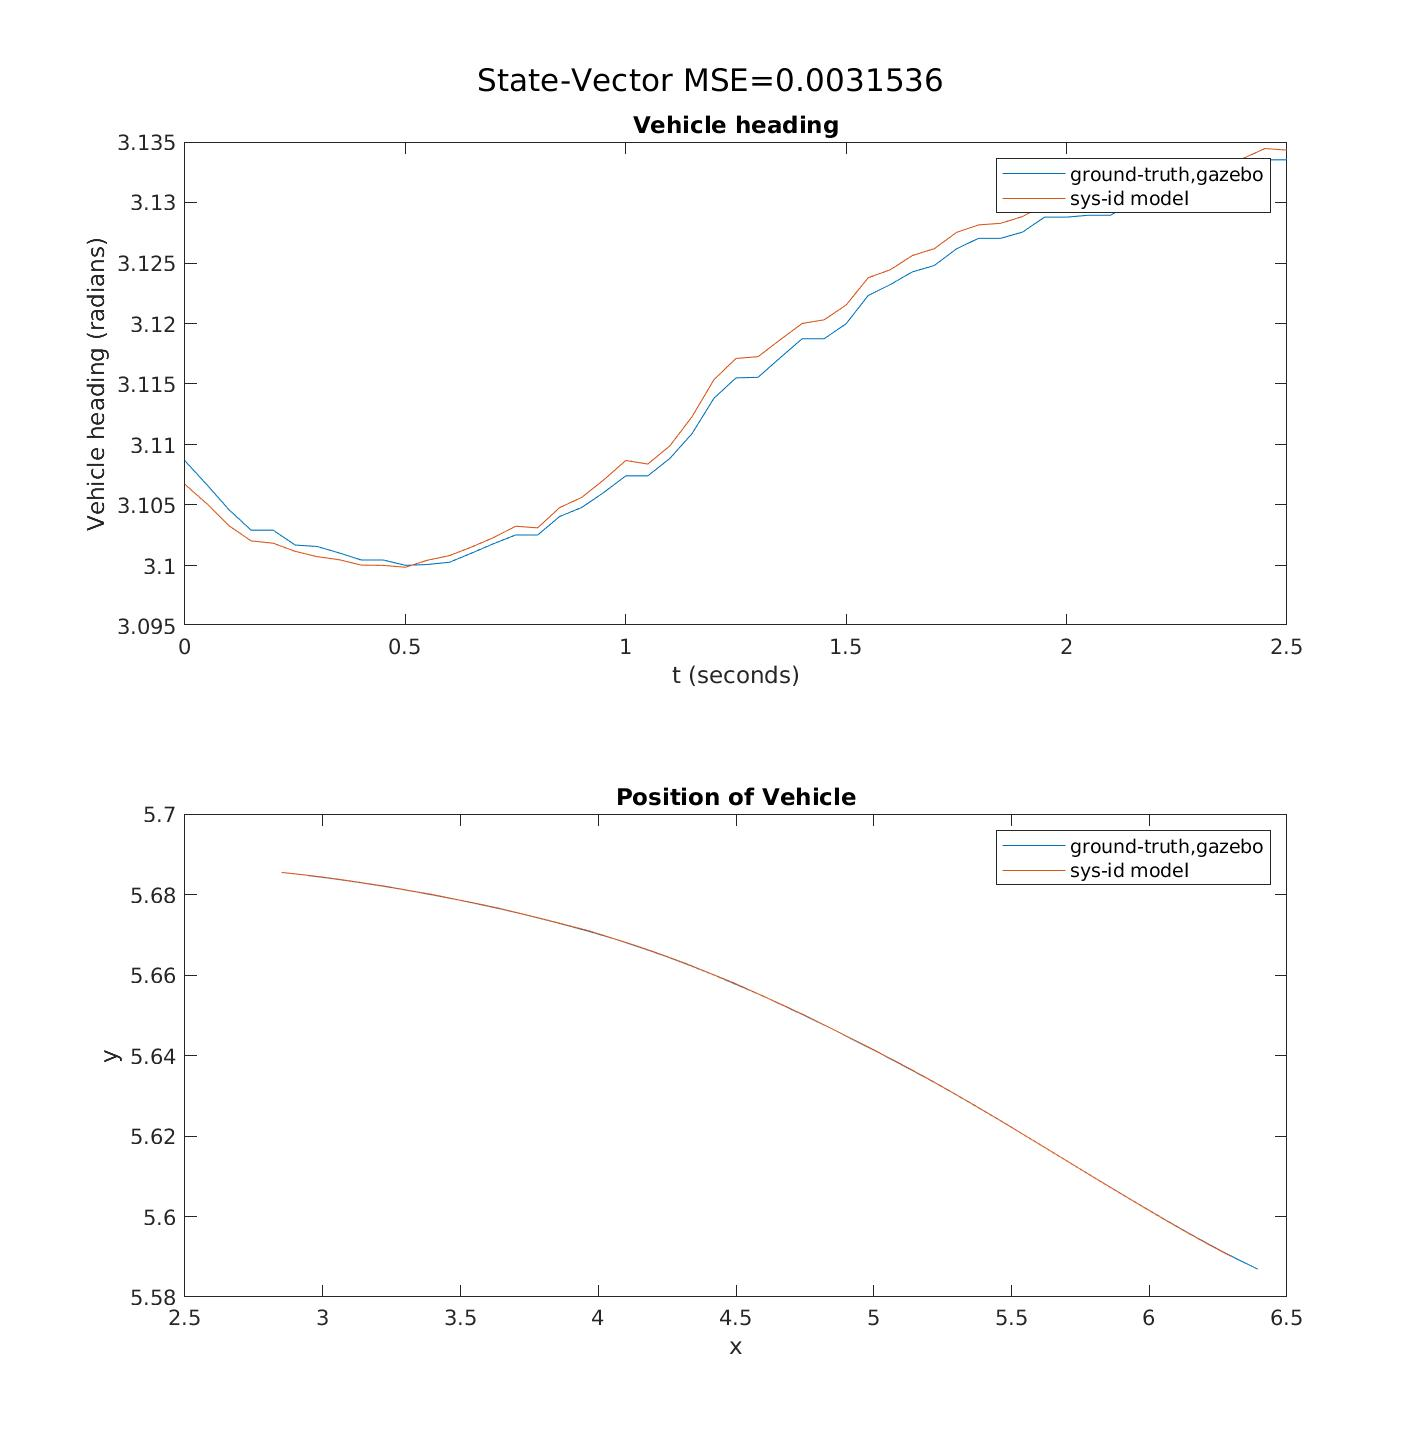
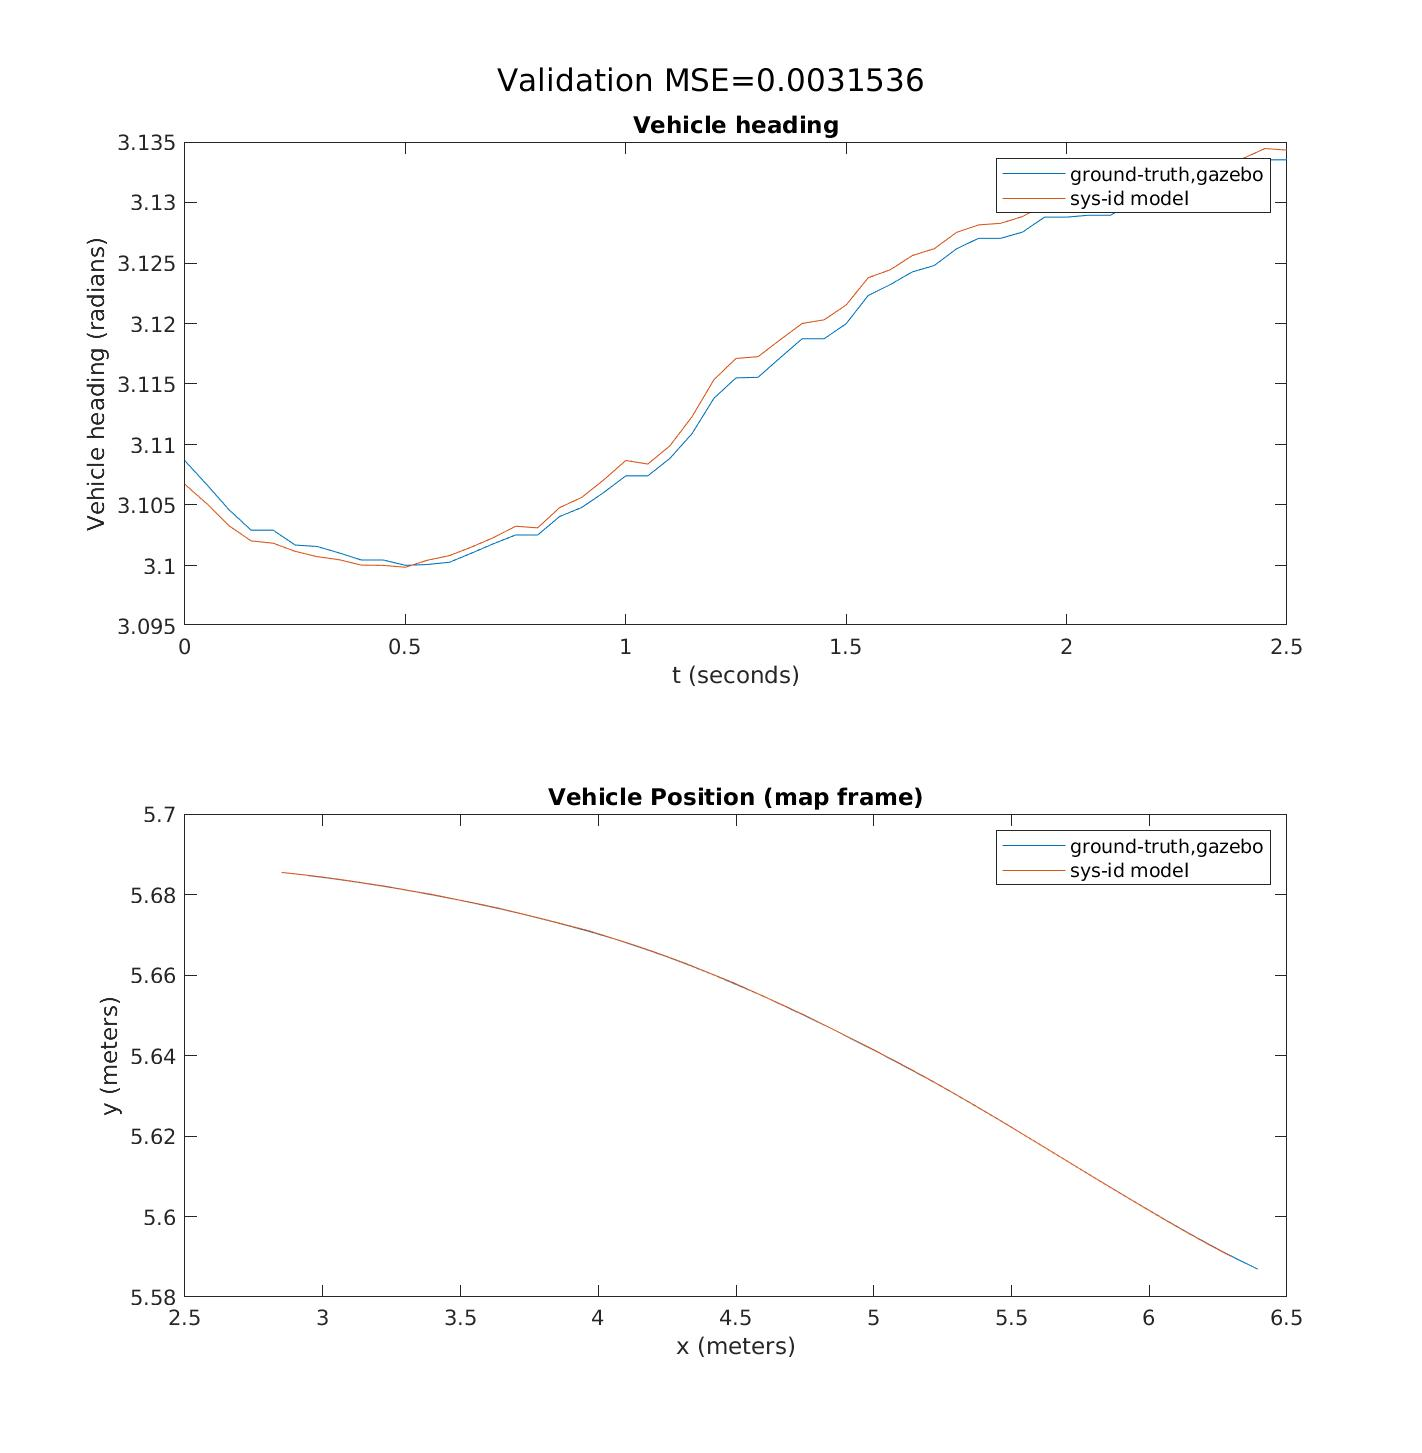
small tweak

diff --git a/src/race/sys_id/validate_experiment.m b/src/race/sys_id/validate_experiment.m
@@ -36,11 +36,11 @@ plot(x(1,:),x(2,:),'DisplayName','ground-truth,gazebo')
 hold on;
 plot(xe(1,:),xe(2,:),'DisplayName','sys-id model')
 hold off;
-xlabel('x') 
-ylabel('y') 
-title("Position of Vehicle")
+xlabel('x (meters)') 
+ylabel('y (meters)') 
+title("Vehicle Position (map frame)")
 legend
-sgtitle(strcat('State-Vector MSE=',string(err)))
+sgtitle(strcat('Validation MSE=',string(err)))
 figname = split(strrep(csv_filename,'csv/',''),".");
 savename = strcat("plots/",figname(1),".jpg");
 saveas(fig,savename);
